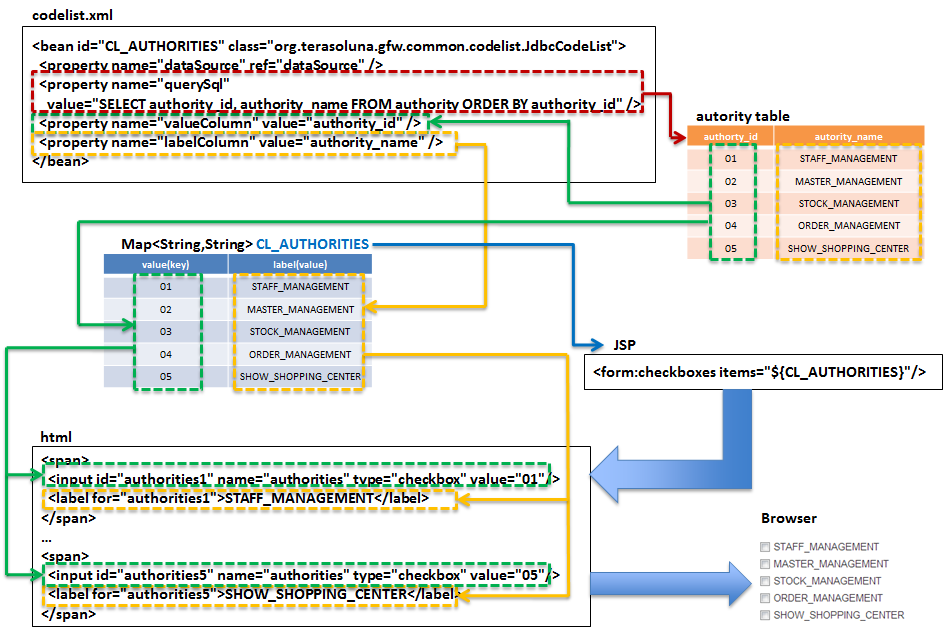
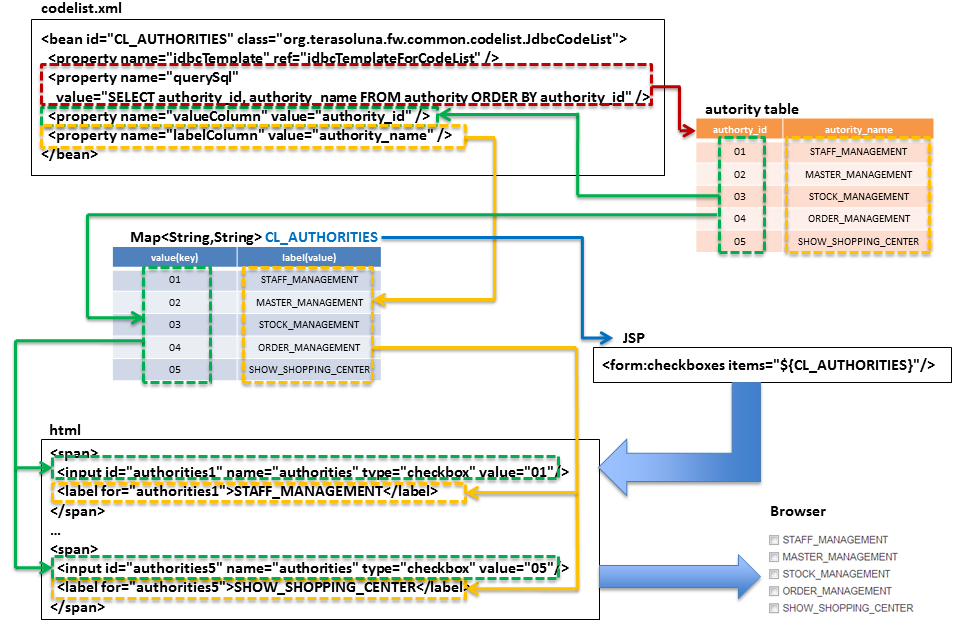
#1332 inject JdbcTemplate into JdbcCodelist (at en)
(cherry picked from commit b0296f90b256cda024adc04a75ed5069cf529590)

Changed region(s): [[0.0, 0.0, 1.0, 1.0], [0.6138, 0.7904, 0.9513, 1.0]]

diff --git a/source_en/ArchitectureInDetail/Codelist.rst b/source_en/ArchitectureInDetail/Codelist.rst
@@ -458,7 +458,7 @@ Example of codelist settings
 .. code-block:: xml
 
     <bean id="CL_AUTHORITIES" class="org.terasoluna.gfw.common.codelist.JdbcCodeList"> <!-- (1) -->
-        <property name="dataSource" ref="dataSource" />
+        <property name="jdbcTemplate" ref="jdbcTemplateForCodeList" />
         <property name="querySql"
             value="SELECT authority_id, authority_name FROM authority ORDER BY authority_id" /> <!-- (2) -->
         <property name="valueColumn" value="authority_id" /> <!-- (3) -->
@@ -870,7 +870,7 @@ For other setting methods, refer to :ref:`afterCodelisti18n`.
     </bean>
   
     <bean id="CL_PRICE_EN" class="org.terasoluna.gfw.common.codelist.JdbcCodeList">  <!-- (4) -->
-        <property name="dataSource" ref="dataSource" />
+        <property name="jdbcTemplate" ref="jdbcTemplateForCodeList" />
         <property name="querySql"
             value="SELECT code, label FROM price WHERE locale = 'en' ORDER BY code" />
         <property name="valueColumn" value="code" />
@@ -878,7 +878,7 @@ For other setting methods, refer to :ref:`afterCodelisti18n`.
     </bean>
   
     <bean id="CL_PRICE_JA" class="org.terasoluna.gfw.common.codelist.JdbcCodeList">  <!-- (5) -->
-        <property name="dataSource" ref="dataSource" />
+        <property name="jdbcTemplate" ref="jdbcTemplateForCodeList" />
         <property name="querySql"
             value="SELECT code, label FROM price WHERE locale = 'ja' ORDER BY code" />
         <property name="valueColumn" value="code" />
@@ -1324,7 +1324,7 @@ Example for setting the Task Scheduler is shown below.
     </task:scheduled-tasks>
 
     <bean id="CL_AUTHORITIES" class="org.terasoluna.gfw.common.codelist.JdbcCodeList">
-        <property name="dataSource" ref="dataSource" />
+        <property name="jdbcTemplate" ref="jdbcTemplateForCodeList" />
         <property name="querySql"
             value="SELECT authority_id, authority_name FROM authority ORDER BY authority_id" />
         <property name="valueColumn" value="authority_id" />
@@ -1370,7 +1370,7 @@ See the example below for directly calling refresh method of JdbcCodeList in Ser
 .. code-block:: xml
 
     <bean id="CL_AUTHORITIES" class="org.terasoluna.gfw.common.codelist.JdbcCodeList">
-        <property name="dataSource" ref="dataSource" />
+        <property name="jdbcTemplate" ref="jdbcTemplateForCodeList" />
         <property name="querySql"
             value="SELECT authority_id, authority_name FROM authority ORDER BY authority_id" />
         <property name="valueColumn" value="authority_id" />
